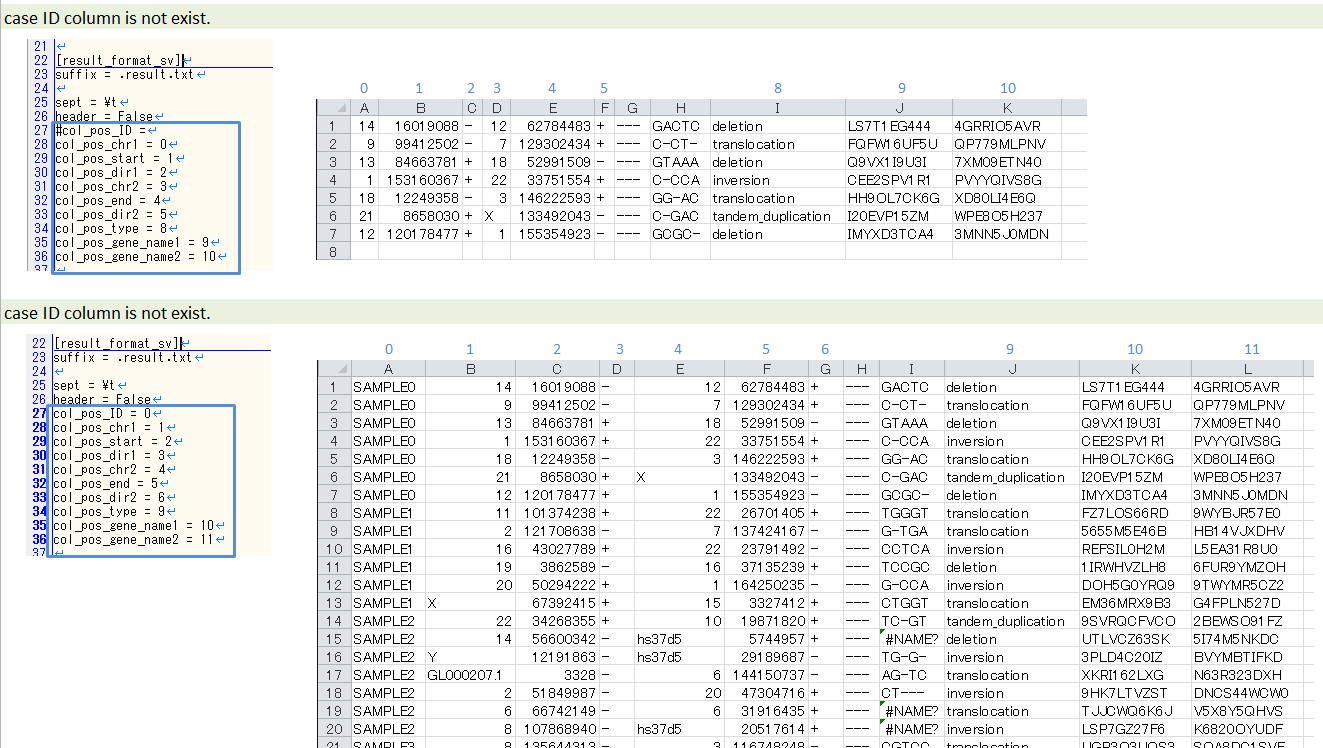
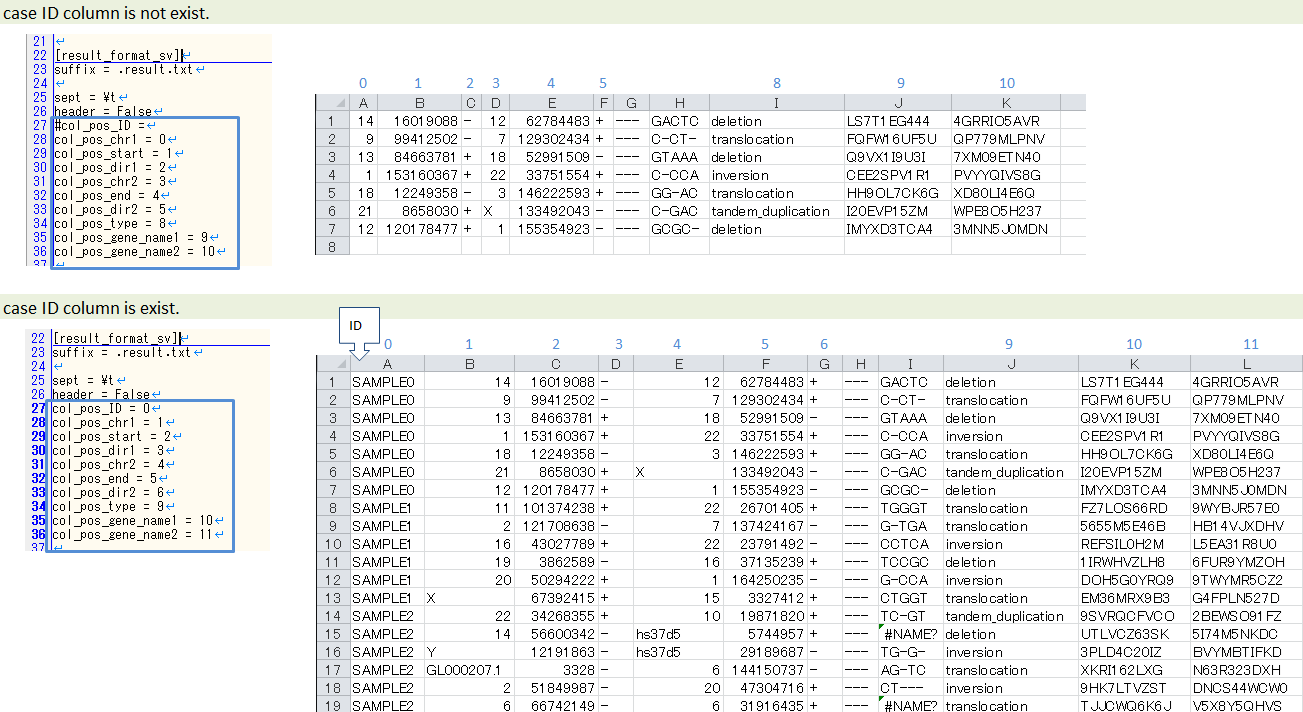
add detail

diff --git a/config.rst b/config.rst
@@ -76,10 +76,48 @@ suffixとID
   :scale: 100%
 
 列と設定の対応
+=========================
 
 .. image:: image/col_pos.PNG
   :scale: 100%
   
+
+** SVの場合 **
+
+====================  ===============  =============================
+name                  input type       description
+====================  ===============  =============================
+col_pos_ID            text             サンプルを識別できる名称
+col_pos_chr1          text             chromosome of break point 1
+col_pos_start         numeric          position of break point 1
+col_pos_dir1          text             direction of break point 1
+col_pos_chr2          text             chromosome of break point 2
+col_pos_end           numeric          position of break point 2
+col_pos_dir2          text             direction of break point 2
+col_pos_type          text             type of variation
+col_pos_gene_name1    text             gene name of break point 1
+col_pos_gene_name2    text             gene name of break point 2
+====================  ===============  =============================
+
+** QCの場合 **
+
+========================  =============  =============================
+name                      input type     description
+========================  =============  =============================
+col_pos_ID                text           サンプルを識別できる名称
+col_pos_total_reads       numeric        number of total reads
+col_pos_mapped_reads      numeric        number of mapped reads
+col_pos_duplicate_reads   numeric        number of duplicate reads
+col_pos_mean_insert_size  numeric        mean of insert size
+col_pos_average_depth     numeric        average of depth
+col_pos_read_length_r1    numeric        number of read_length_r1
+col_pos_read_length_r2    numeric        number of read_length_r2
+col_pos_ratio_2x          0.0～1.0       coverage (depth=2)
+col_pos_ratio_10x         0.0～1.0       coverage (depth=10)
+col_pos_ratio_20x         0.0～1.0       coverage (depth=20)
+col_pos_ratio_30x         0.0～1.0       coverage (depth=30)
+========================  =============  =============================
+
 
 作成したconfigファイルはpa_plot コマンドの--config_file オプションで指定します。
 
